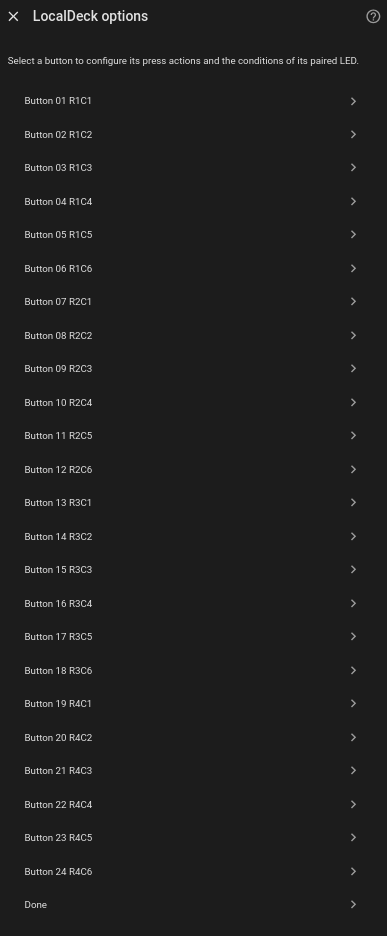
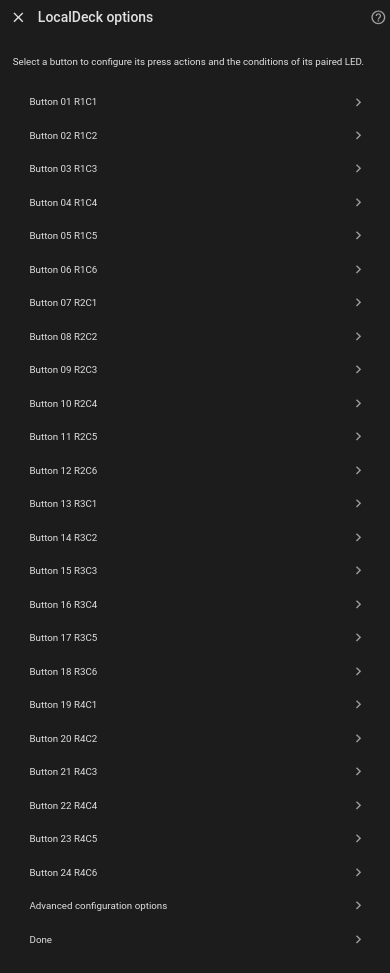
Add import/export feature and update documentation.

diff --git a/custom_components/localdeckplus/config_flow.py b/custom_components/localdeckplus/config_flow.py
@@ -1,5 +1,7 @@
 """Config flow for the LocalDeck-Plus integration."""
 
+import json
+
 import voluptuous as vol
 
 from homeassistant.config_entries import ConfigFlow, OptionsFlow
@@ -16,12 +18,16 @@ from homeassistant.helpers.selector import (
     SelectSelector,
     SelectSelectorConfig,
     SelectSelectorMode,
+    TextSelector,
+    TextSelectorConfig,
+    TextSelectorType,
 )
 
 from .const import (
     CONF_ACTION,
     CONF_BRIGHTNESS_PCT,
     CONF_COLOR,
+    CONF_CONFIG,
     CONF_CONDITION,
     CONF_CONDITIONS,
     CONF_DEVICE_ID,
@@ -207,6 +213,7 @@ class LocalDeckPlusOptionsFlow(OptionsFlow):
 
             setattr(self, f"async_step_{step_id}", _button_step)
             menu_options[step_id] = button_names[number]
+        menu_options["advanced"] = "Advanced configuration options"
         menu_options["done"] = "Done"
         return self.async_show_menu(step_id="menu", menu_options=menu_options)
 
@@ -278,6 +285,75 @@ class LocalDeckPlusOptionsFlow(OptionsFlow):
             suggested,
         )
         return self.async_show_form(step_id=step_id, data_schema=schema)
+
+    # ------------------------------------------------------------------
+    # Advanced configuration options (import / export / clear)
+    # ------------------------------------------------------------------
+
+    async def async_step_advanced(self, user_input=None):
+        """Show the advanced configuration options menu."""
+        menu_options = {
+            "import_export": "Import / Export configuration",
+            "clear_configuration": "Clear configuration",
+            "return_to_main": "Return to main menu",
+        }
+        return self.async_show_menu(step_id="advanced", menu_options=menu_options)
+
+    async def async_step_import_export(self, user_input=None):
+        """Show the import/export form with the configuration text box.
+
+        The text box is pre-filled with the current configuration (button
+        actions and LED bindings, as JSON) so the user can copy it. Pasting
+        a configuration into the box and submitting imports it, replacing
+        the current button actions and LED bindings.
+        """
+        if user_input is not None:
+            raw = user_input.get(CONF_CONFIG) or ""
+            try:
+                config = json.loads(raw) if raw.strip() else {}
+            except (json.JSONDecodeError, ValueError):
+                return self.async_show_form(
+                    step_id="import_export",
+                    data_schema=self._config_text_schema(),
+                    errors={"base": "invalid_json"},
+                )
+            if not isinstance(config, dict):
+                return self.async_show_form(
+                    step_id="import_export",
+                    data_schema=self._config_text_schema(),
+                    errors={"base": "invalid_config"},
+                )
+            for key in (OPT_BUTTON_ACTIONS, OPT_LED_BINDINGS):
+                if key in config and not isinstance(config[key], dict):
+                    return self.async_show_form(
+                        step_id="import_export",
+                        data_schema=self._config_text_schema(),
+                        errors={"base": "invalid_config"},
+                    )
+            options = dict(self.config_entry.options)
+            if OPT_BUTTON_ACTIONS in config:
+                options[OPT_BUTTON_ACTIONS] = config[OPT_BUTTON_ACTIONS]
+            if OPT_LED_BINDINGS in config:
+                options[OPT_LED_BINDINGS] = config[OPT_LED_BINDINGS]
+            self.hass.config_entries.async_update_entry(
+                self.config_entry, options=options
+            )
+            return await self.async_step_menu()
+        schema = self.add_suggested_values_to_schema(
+            self._config_text_schema(),
+            {CONF_CONFIG: self._export_config_text()},
+        )
+        return self.async_show_form(step_id="import_export", data_schema=schema)
+
+    async def async_step_clear_configuration(self, user_input=None):
+        """Clear all button actions and LED bindings, then return to the menu."""
+        options = dict(self.config_entry.options)
+        options[OPT_BUTTON_ACTIONS] = {}
+        options[OPT_LED_BINDINGS] = {}
+        self.hass.config_entries.async_update_entry(
+            self.config_entry, options=options
+        )
+        return await self.async_step_menu()
 
     # ------------------------------------------------------------------
     # LED conditions (the LED paired with the pending button)
@@ -611,6 +687,36 @@ class LocalDeckPlusOptionsFlow(OptionsFlow):
             {
                 vol.Required(CONF_FOLLOW_LIGHT): EntitySelector(
                     EntitySelectorConfig(domain="light")
+                )
+            }
+        )
+
+    def _export_config_text(self) -> str:
+        """Return the current configuration as an indented JSON string.
+
+        Only the button actions and LED bindings are included — never the
+        device-identifying data — so the text can be copied to another
+        LocalDeck.
+        """
+        config = {
+            OPT_BUTTON_ACTIONS: dict(
+                self.config_entry.options.get(OPT_BUTTON_ACTIONS, {})
+            ),
+            OPT_LED_BINDINGS: dict(
+                self.config_entry.options.get(OPT_LED_BINDINGS, {})
+            ),
+        }
+        return json.dumps(config, indent=2)
+
+    def _config_text_schema(self) -> vol.Schema:
+        """Schema for the import/export configuration text box."""
+        return vol.Schema(
+            {
+                vol.Required(CONF_CONFIG): TextSelector(
+                    TextSelectorConfig(
+                        multiline=True,
+                        type=TextSelectorType.TEXT,
+                    )
                 )
             }
         )

diff --git a/custom_components/localdeckplus/const.py b/custom_components/localdeckplus/const.py
@@ -20,6 +20,9 @@ SWITCH_DISABLE_LEDS = "Disable LEDs"
 # Button action keys
 CONF_ACTION = "action"
 
+# Import/export configuration text field
+CONF_CONFIG = "config"
+
 # LED binding condition-rule keys
 CONF_CONDITIONS = "conditions"
 CONF_CONDITION = "condition"

diff --git a/README.md b/README.md
@@ -71,6 +71,8 @@ A few things about the stock setup were not to my liking:
     - Rules can be mixed so you can have a state based on a condition, and if that condition fails, it proceeds to following a light.
     - Invalid/Incomplete condition rules should be skipped whilst producing an error in the core log.
 - Disable LEDs Switch to darken your LocalDeck, which, when switched off, allows them to go right back to following their rules. NB: You can still manually turn lights on when this is on via the ESPHome integration.
+- Import / Export devices configuration as json.
+- Full device configuration clear.
 
 ## What are the advantages of this setup over the stock firmware?
 
